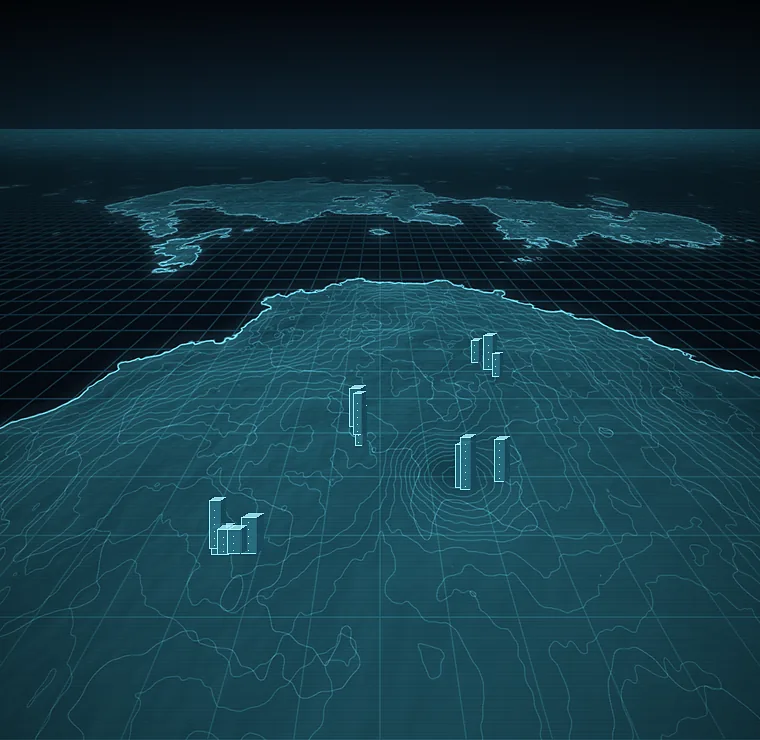
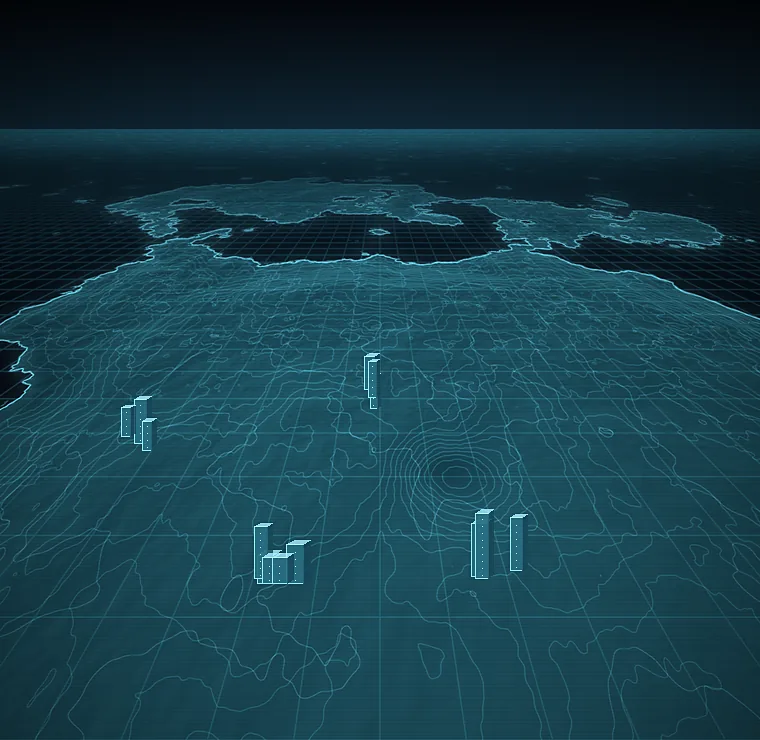
v26: three Gates per rank, map shows only rank-1 / rank / rank+1
- 18 Gates (3 per rank E..S); original ids kept so saved clears and an
  active gate still load (base snapshots missing new objectives start
  counting at load)
- Only Gates one rank below, at and above your rank exist on the map
  and can be entered; everything else stays hidden until you reach it
- Map layout per Belphegor: rows by rank (higher = farther), staggered
  columns, short beams with a tall one on the selected/active Gate,
  HUD bottom-left, 2-row layout at E-rank and the top rank; art slots
  re-rendered with land under all 12 slots
- Ember detail card took a hardcoded blue; now follows --gate
- Tests 17/17 (fixed a flaky case: entry can roll a Red Gate)

diff --git a/dev/ascend.html b/dev/ascend.html
@@ -241,7 +241,7 @@ button{font:inherit;color:inherit}
 .gpin.lock .grk,.gpin.lock .glv{opacity:.7}
 .gbrk{position:absolute;left:50%;top:26px;transform:translateX(-50%);font-family:var(--f-mono);font-size:9px;letter-spacing:.1em;color:#ffd6f4;white-space:nowrap;border-left:2px solid #ff4fd8;padding-left:4px;text-shadow:0 0 6px #ff4fd8}
 .gpin:focus-visible{outline:2px solid #fff;outline-offset:4px;border-radius:50%}
-.gdet{--gk:#4fb8ff}.gdet.active{--gk:#ff4fd8}
+.gdet{--gk:var(--gate)}.gdet.active{--gk:#ff4fd8}
 /* --- Gate Dispatch polish (Belphegor audit) --- */
 :root{--gate:#4fb8ff;--gbreak:#ff4fd8}
 [data-skin="hunter"]{--gate:#62d8e6}
@@ -344,6 +344,15 @@ button{font:inherit;color:inherit}
 .gpin.red .ring{animation:gsel 1s ease-out infinite}
 @media (prefers-reduced-motion:reduce){.gpin.red .ring{animation:none}}
 [data-skin="daylight"] .gdet.active.red{--gk:#c41f1f}
+/* rank-window layout: short beams, tall only when selected/active, HUD bottom-left */
+.gmap{height:420px}
+.ghud{top:auto;bottom:8px;left:8px}
+.gpin{--tb:var(--tb0,88px);--bs:var(--bs0,.65)}
+.gpin.sel,.gpin.active{--tb:var(--tb1,116px);--bs:.85}
+.gpin .beam{transform:scaleY(var(--bs));transform-origin:50% 100%}
+.gtag{bottom:var(--tb)}
+.gpin::before{height:calc(var(--tb) + 8px)}
+.gbrk{background:rgba(5,8,14,.75);padding:1px 6px 1px 4px}
 @keyframes gfr{to{background-position:-512px 0}}
 .gpin.lock .ring{border-color:#9aa6b4;background:radial-gradient(closest-side,rgba(5,8,14,.6),transparent 80%)}
 .gpin.lock .grk{background:rgba(5,8,14,.85)}
@@ -622,13 +631,32 @@ const objName=a=>(OBJ.find(o=>o[0]===a)||[0,""])[1];
 // Gates: ranked dungeons with real-life objectives. "run" = Daily Quest clears in a row (Rest Days neutral); others count up from entry.
 const GATES=[
   {id:"e",t:0,name:"Goblin Den",days:5,xp:60,obj:[["run",3,"Clear the Daily Quest 3 days in a row"]]},
+  {id:"e2",t:0,name:"Rat Warrens",days:5,xp:60,obj:[["str50",3,"3 strength sessions"]]},
+  {id:"e3",t:0,name:"Mossy Hollow",days:5,xp:60,obj:[["int40",3,"3 reading sessions"]]},
   {id:"d",t:1,name:"Flooded Cellar",days:7,xp:100,obj:[["miles",10,"Log 10 timed miles (run or ruck time)"]]},
+  {id:"d2",t:1,name:"Bone Crypt",days:7,xp:100,obj:[["vit30",5,"Lights out on time, 5 nights"]]},
+  {id:"d3",t:1,name:"Whispering Shrine",days:7,xp:100,obj:[["per100",5,"5 meditation sessions"]]},
   {id:"c",t:2,name:"Iron Mines",days:10,xp:150,obj:[["str50",6,"6 strength sessions"],["agi30",3,"3 runs or rucks"]]},
+  {id:"c2",t:2,name:"Sunken Library",days:10,xp:150,obj:[["int40",7,"7 reading sessions"]]},
+  {id:"c3",t:2,name:"Ashen Barracks",days:10,xp:150,obj:[["run",5,"Clear the Daily Quest 5 days in a row"]]},
   {id:"b",t:3,name:"Wraith Halls",days:14,xp:220,obj:[["vit30",10,"Lights out on time, 10 nights"]]},
+  {id:"b2",t:3,name:"Frost Spire",days:14,xp:220,obj:[["miles",25,"Log 25 timed miles"]]},
+  {id:"b3",t:3,name:"Ogre Fortress",days:14,xp:220,obj:[["str50",10,"10 strength sessions"],["water25",10,"Hit your water goal 10 days"]]},
   {id:"a",t:4,name:"Scholar's Labyrinth",days:21,xp:300,strict:true,obj:[["clear10",14,"Clear the Daily Quest 14 days"]]},
-  {id:"s",t:5,name:"Monarch's Gate",days:35,xp:500,obj:[["run",30,"Clear the Daily Quest 30 days in a row"]]}];
-const GBASE=["str50","agi30","vit30","clear10","miles"];
-const GPOS={e:[13,86,1],c:[44,84,1],a:[86,86,1],d:[27,58,.85],b:[73,58,.85],s:[57,46,.75]}; // [x%, y%, depth scale] of each pillar base // pillar base on the dispatch map, % of map box
+  {id:"a2",t:4,name:"Demon Keep",days:21,xp:300,obj:[["str50",14,"14 strength sessions"],["agi30",8,"8 runs or rucks"]]},
+  {id:"a3",t:4,name:"Storm Peak",days:21,xp:300,obj:[["miles",45,"Log 45 timed miles"]]},
+  {id:"s",t:5,name:"Monarch's Gate",days:35,xp:500,obj:[["run",30,"Clear the Daily Quest 30 days in a row"]]},
+  {id:"s2",t:5,name:"Queen's Hive",days:35,xp:500,obj:[["clear10",28,"Clear the Daily Quest 28 days"],["miles",60,"Log 60 timed miles"]]},
+  {id:"s3",t:5,name:"Abyssal Throne",days:35,xp:500,obj:[["str50",24,"24 strength sessions"],["vit30",24,"Lights out on time, 24 nights"],["per100",20,"20 meditation sessions"]]}];
+const GBASE=["str50","agi30","vit30","clear10","miles","int40","per100","water25"];
+const GTOP=5; // highest Gate rank (S); National Level and Monarch see A and S
+const gTier=()=>Math.min(tierOf(S.lvl),GTOP);
+// only Gates one rank below, at and above your rank exist on the map; the rest stay hidden until you reach them
+const gVisible=g=>Math.abs(g.t-gTier())<=1;
+// map rows (Belphegor spec): higher rank = farther back; staggered columns; tb/bs = tag height / beam scale, *1 = selected or active
+const GROW3={"1":{y:40,z:.7,x:[18,46,74],tb:80,bs:.59,tb1:108},"0":{y:60,z:.85,x:[32,60,88],tb:85,bs:.63,tb1:113},"-1":{y:80,z:1,x:[16,46,76],tb:88,bs:.65,tb1:116}};
+const GROW2={hi:{y:46,z:.8,x:[32,60,88],tb:80,bs:.59,tb1:108},lo:{y:80,z:1,x:[16,46,76],tb:88,bs:.65,tb1:116}};
+function gSlot(g){const T=gTier(),three=T>0&&T<GTOP,r=three?GROW3[g.t-T]:GROW2[g.t>Math.min(T,GTOP-1)||(T===GTOP&&g.t===GTOP)?"hi":"lo"],i=GATES.filter(x=>x.t===g.t).indexOf(g);return {x:r.x[i],y:r.y,z:r.z,tb:r.tb,bs:r.bs,tb1:r.tb1}} // [x%, y%, depth scale] of each pillar base // pillar base on the dispatch map, % of map box
 let selGate=null;
 const focusPin=()=>{const p=$(".gpin.sel");if(p)p.focus({preventScroll:true})};
 const LOCK='<svg width="9" height="9" viewBox="0 0 10 10" aria-hidden="true"><rect x="1.5" y="4.5" width="7" height="5" rx="1" fill="currentColor"/><path d="M3 4.5V3a2 2 0 0 1 4 0v1.5" fill="none" stroke="currentColor" stroke-width="1.3"/></svg>';
@@ -691,8 +719,8 @@ function load(sv){if(!sv||typeof sv!=="object")return;const D=fresh(),num=v=>typ
   if(key(sv.gateCd))S.gateCd=sv.gateCd;
   if(sv.gateClears&&typeof sv.gateClears==="object")for(const g of GATES){const v=sv.gateClears[g.id];if(Number.isInteger(v)&&v>0)S.gateClears[g.id]=v}
   const g=sv.gate; // a damaged active gate is dropped on its own; the rest of the save still loads
-  if(g&&typeof g==="object"&&GATES.some(x=>x.id===g.id)&&key(g.start)&&key(g.until)&&g.start<=g.until&&Number.isInteger(g.run)&&g.run>=0&&typeof g.failed==="boolean"&&g.base&&GBASE.every(k=>num(g.base[k])&&g.base[k]>=0))
-    S.gate={id:g.id,start:g.start,until:g.until,run:g.run,failed:g.failed,red:g.red===true,base:Object.fromEntries(GBASE.map(k=>[k,g.base[k]]))}}
+  if(g&&typeof g==="object"&&GATES.some(x=>x.id===g.id)&&key(g.start)&&key(g.until)&&g.start<=g.until&&Number.isInteger(g.run)&&g.run>=0&&typeof g.failed==="boolean"&&g.base&&["str50","agi30","vit30","clear10","miles"].every(k=>num(g.base[k])&&g.base[k]>=0))
+    S.gate={id:g.id,start:g.start,until:g.until,run:g.run,failed:g.failed,red:g.red===true,base:Object.fromEntries(GBASE.map(k=>[k,num(g.base[k])&&g.base[k]>=0?g.base[k]:S.ap[k]]))}}
 let storageOK=true,saveBlocked=false;
 // accept stored/restored data only if it has the basic Ascend shape; never fill a blank profile from junk
 const VER=7,STORE="ascend-v7",OLD=["ascend-v6","ascend-v5","ascend-v4"];
@@ -739,7 +767,7 @@ const RED_CHANCE=.15;
 const gGoal=(g,k,n)=>S.gate&&S.gate.red&&S.gate.id===g.id?(k==="miles"?Math.ceil(n*1.5):Math.min(g.days,Math.ceil(n*1.5))):n;
 const gXP=g=>S.gate&&S.gate.red&&S.gate.id===g.id?g.xp*2:g.xp;
 const gMet=()=>!!S.gate&&!S.gate.failed&&(g=>g.obj.every(([k,n])=>gProg(k,1)>=gGoal(g,k,n)-1e-9))(gateDef(S.gate.id));
-const canEnter=g=>!S.gate&&g.t<=tierOf(S.lvl)&&!(S.gateCd&&S.day<S.gateCd);
+const canEnter=g=>!S.gate&&gVisible(g)&&!(S.gateCd&&S.day<S.gateCd);
 function enterGate(id){const g=gateDef(id);if(!g||!canEnter(g))return;
   S.gate={id,start:S.day,until:addDays(S.day,g.days-1),run:0,failed:false,red:Math.random()<RED_CHANCE,base:Object.fromEntries(GBASE.map(k=>[k,k==="miles"?S.m.miles:S.ap[k]]))};
   save();render(true);setTimeout(focusPin);
@@ -916,11 +944,12 @@ ${sh("Assessment")}
 <div class="card glowcard" style="--c:var(--hl)"><button class="cta" data-start="1">${hex("agi",28)}<span><b>${!S.base?"Player Assessment":reDue()?"Monthly Re-Assessment due":"Monthly Re-Assessment"}</b><small>${!S.base?"15 questions · 3 min":reDue()?"Re-measure yourself. Your stats reset to the honest result.":`Next in ${30-daysSince(S.baseKey)} days · last taken ${S.base}`}</small></span><span aria-hidden="true">→</span></button></div>`},
 
 quests(){const T=tierOf(S.lvl),G=S.gate;
-if(!gateDef(selGate))selGate=G?G.id:([...GATES].reverse().find(g=>g.t<=T)||GATES[0]).id;
-const st=g=>G&&G.id===g.id?"active":g.t>T?"lock":"open";
+if(G&&!gateDef(selGate))selGate=G.id;
+if(!G&&!(gateDef(selGate)&&gVisible(gateDef(selGate))))selGate=GATES.find(g=>g.t===gTier()).id;
+const st=g=>G&&G.id===g.id?"active":gVisible(g)?"open":"lock";
 // Gate Dispatch: a tilted holo map with one light pillar per Gate; the active Gate burns pink, like a dungeon break
-const pins=GATES.map(g=>{const[x,y,z]=GPOS[g.id],k=st(g),n=S.gateClears[g.id]||0,red=k==="active"&&G.red;
-  return `<button class="gpin ${k}${red?" red":""} ${selGate===g.id?"sel":""}" style="left:${x}%;top:${y}%;--z:${z};--zi:${(1/z).toFixed(3)};--d:${(g.t*.37)%1.3}s;z-index:${Math.round(y)}" data-gsel="${g.id}" role="radio" aria-checked="${selGate===g.id}" aria-label="${RANKS[g.t][0]}, ${g.name}, level ${RANK_AT[g.t]}, ${g.days} days${k==="lock"?", locked":red?", red gate, active":k==="active"?", active":""}${n?`, cleared ${n} times`:""}">
+const pins=GATES.filter(gVisible).map(g=>{const{x,y,z,tb,bs,tb1}=gSlot(g),k=st(g),n=S.gateClears[g.id]||0,red=k==="active"&&G.red;
+  return `<button class="gpin ${k}${red?" red":""} ${selGate===g.id?"sel":""}" style="left:${x}%;top:${y}%;--z:${z};--tb0:${tb}px;--bs0:${bs};--tb1:${tb1}px;--zi:${(1/z).toFixed(3)};--d:${(g.t*.37)%1.3}s;z-index:${Math.round(y)}" data-gsel="${g.id}" role="radio" aria-checked="${selGate===g.id}" aria-label="${RANKS[g.t][0]}, ${g.name}, level ${RANK_AT[g.t]}, ${g.days} days${k==="lock"?", locked":red?", red gate, active":k==="active"?", active":""}${n?`, cleared ${n} times`:""}">
   <i class="beam"></i><i class="flame"></i><i class="core"></i><i class="ring"></i>
   <span class="gtag"><span class="grk"><b>${"EDCBAS"[g.t]}</b><span class="glv">${k==="lock"?LOCK:""}Lv.${RANK_AT[g.t]}</span></span></span>
   ${k==="active"?`<span class="gbrk">${red?"RED GATE":"DUNGEON BREAK"}</span>`:""}</button>`}).join("");

diff --git a/index.html b/index.html
@@ -254,7 +254,7 @@ button{font:inherit;color:inherit}
 .gpin.lock .grk,.gpin.lock .glv{opacity:.7}
 .gbrk{position:absolute;left:50%;top:26px;transform:translateX(-50%);font-family:var(--f-mono);font-size:9px;letter-spacing:.1em;color:#ffd6f4;white-space:nowrap;border-left:2px solid #ff4fd8;padding-left:4px;text-shadow:0 0 6px #ff4fd8}
 .gpin:focus-visible{outline:2px solid #fff;outline-offset:4px;border-radius:50%}
-.gdet{--gk:#4fb8ff}.gdet.active{--gk:#ff4fd8}
+.gdet{--gk:var(--gate)}.gdet.active{--gk:#ff4fd8}
 /* --- Gate Dispatch polish (Belphegor audit) --- */
 :root{--gate:#4fb8ff;--gbreak:#ff4fd8}
 [data-skin="hunter"]{--gate:#62d8e6}
@@ -357,6 +357,15 @@ button{font:inherit;color:inherit}
 .gpin.red .ring{animation:gsel 1s ease-out infinite}
 @media (prefers-reduced-motion:reduce){.gpin.red .ring{animation:none}}
 [data-skin="daylight"] .gdet.active.red{--gk:#c41f1f}
+/* rank-window layout: short beams, tall only when selected/active, HUD bottom-left */
+.gmap{height:420px}
+.ghud{top:auto;bottom:8px;left:8px}
+.gpin{--tb:var(--tb0,88px);--bs:var(--bs0,.65)}
+.gpin.sel,.gpin.active{--tb:var(--tb1,116px);--bs:.85}
+.gpin .beam{transform:scaleY(var(--bs));transform-origin:50% 100%}
+.gtag{bottom:var(--tb)}
+.gpin::before{height:calc(var(--tb) + 8px)}
+.gbrk{background:rgba(5,8,14,.75);padding:1px 6px 1px 4px}
 @keyframes gfr{to{background-position:-512px 0}}
 .gpin.lock .ring{border-color:#9aa6b4;background:radial-gradient(closest-side,rgba(5,8,14,.6),transparent 80%)}
 .gpin.lock .grk{background:rgba(5,8,14,.85)}
@@ -647,13 +656,32 @@ const objName=a=>(OBJ.find(o=>o[0]===a)||[0,""])[1];
 // Gates: ranked dungeons with real-life objectives. "run" = Daily Quest clears in a row (Rest Days neutral); others count up from entry.
 const GATES=[
   {id:"e",t:0,name:"Goblin Den",days:5,xp:60,obj:[["run",3,"Clear the Daily Quest 3 days in a row"]]},
+  {id:"e2",t:0,name:"Rat Warrens",days:5,xp:60,obj:[["str50",3,"3 strength sessions"]]},
+  {id:"e3",t:0,name:"Mossy Hollow",days:5,xp:60,obj:[["int40",3,"3 reading sessions"]]},
   {id:"d",t:1,name:"Flooded Cellar",days:7,xp:100,obj:[["miles",10,"Log 10 timed miles (run or ruck time)"]]},
+  {id:"d2",t:1,name:"Bone Crypt",days:7,xp:100,obj:[["vit30",5,"Lights out on time, 5 nights"]]},
+  {id:"d3",t:1,name:"Whispering Shrine",days:7,xp:100,obj:[["per100",5,"5 meditation sessions"]]},
   {id:"c",t:2,name:"Iron Mines",days:10,xp:150,obj:[["str50",6,"6 strength sessions"],["agi30",3,"3 runs or rucks"]]},
+  {id:"c2",t:2,name:"Sunken Library",days:10,xp:150,obj:[["int40",7,"7 reading sessions"]]},
+  {id:"c3",t:2,name:"Ashen Barracks",days:10,xp:150,obj:[["run",5,"Clear the Daily Quest 5 days in a row"]]},
   {id:"b",t:3,name:"Wraith Halls",days:14,xp:220,obj:[["vit30",10,"Lights out on time, 10 nights"]]},
+  {id:"b2",t:3,name:"Frost Spire",days:14,xp:220,obj:[["miles",25,"Log 25 timed miles"]]},
+  {id:"b3",t:3,name:"Ogre Fortress",days:14,xp:220,obj:[["str50",10,"10 strength sessions"],["water25",10,"Hit your water goal 10 days"]]},
   {id:"a",t:4,name:"Scholar's Labyrinth",days:21,xp:300,strict:true,obj:[["clear10",14,"Clear the Daily Quest 14 days"]]},
-  {id:"s",t:5,name:"Monarch's Gate",days:35,xp:500,obj:[["run",30,"Clear the Daily Quest 30 days in a row"]]}];
-const GBASE=["str50","agi30","vit30","clear10","miles"];
-const GPOS={e:[13,86,1],c:[44,84,1],a:[86,86,1],d:[27,58,.85],b:[73,58,.85],s:[57,46,.75]}; // [x%, y%, depth scale] of each pillar base // pillar base on the dispatch map, % of map box
+  {id:"a2",t:4,name:"Demon Keep",days:21,xp:300,obj:[["str50",14,"14 strength sessions"],["agi30",8,"8 runs or rucks"]]},
+  {id:"a3",t:4,name:"Storm Peak",days:21,xp:300,obj:[["miles",45,"Log 45 timed miles"]]},
+  {id:"s",t:5,name:"Monarch's Gate",days:35,xp:500,obj:[["run",30,"Clear the Daily Quest 30 days in a row"]]},
+  {id:"s2",t:5,name:"Queen's Hive",days:35,xp:500,obj:[["clear10",28,"Clear the Daily Quest 28 days"],["miles",60,"Log 60 timed miles"]]},
+  {id:"s3",t:5,name:"Abyssal Throne",days:35,xp:500,obj:[["str50",24,"24 strength sessions"],["vit30",24,"Lights out on time, 24 nights"],["per100",20,"20 meditation sessions"]]}];
+const GBASE=["str50","agi30","vit30","clear10","miles","int40","per100","water25"];
+const GTOP=5; // highest Gate rank (S); National Level and Monarch see A and S
+const gTier=()=>Math.min(tierOf(S.lvl),GTOP);
+// only Gates one rank below, at and above your rank exist on the map; the rest stay hidden until you reach them
+const gVisible=g=>Math.abs(g.t-gTier())<=1;
+// map rows (Belphegor spec): higher rank = farther back; staggered columns; tb/bs = tag height / beam scale, *1 = selected or active
+const GROW3={"1":{y:40,z:.7,x:[18,46,74],tb:80,bs:.59,tb1:108},"0":{y:60,z:.85,x:[32,60,88],tb:85,bs:.63,tb1:113},"-1":{y:80,z:1,x:[16,46,76],tb:88,bs:.65,tb1:116}};
+const GROW2={hi:{y:46,z:.8,x:[32,60,88],tb:80,bs:.59,tb1:108},lo:{y:80,z:1,x:[16,46,76],tb:88,bs:.65,tb1:116}};
+function gSlot(g){const T=gTier(),three=T>0&&T<GTOP,r=three?GROW3[g.t-T]:GROW2[g.t>Math.min(T,GTOP-1)||(T===GTOP&&g.t===GTOP)?"hi":"lo"],i=GATES.filter(x=>x.t===g.t).indexOf(g);return {x:r.x[i],y:r.y,z:r.z,tb:r.tb,bs:r.bs,tb1:r.tb1}} // [x%, y%, depth scale] of each pillar base // pillar base on the dispatch map, % of map box
 let selGate=null;
 const focusPin=()=>{const p=$(".gpin.sel");if(p)p.focus({preventScroll:true})};
 const LOCK='<svg width="9" height="9" viewBox="0 0 10 10" aria-hidden="true"><rect x="1.5" y="4.5" width="7" height="5" rx="1" fill="currentColor"/><path d="M3 4.5V3a2 2 0 0 1 4 0v1.5" fill="none" stroke="currentColor" stroke-width="1.3"/></svg>';
@@ -716,8 +744,8 @@ function load(sv){if(!sv||typeof sv!=="object")return;const D=fresh(),num=v=>typ
   if(key(sv.gateCd))S.gateCd=sv.gateCd;
   if(sv.gateClears&&typeof sv.gateClears==="object")for(const g of GATES){const v=sv.gateClears[g.id];if(Number.isInteger(v)&&v>0)S.gateClears[g.id]=v}
   const g=sv.gate; // a damaged active gate is dropped on its own; the rest of the save still loads
-  if(g&&typeof g==="object"&&GATES.some(x=>x.id===g.id)&&key(g.start)&&key(g.until)&&g.start<=g.until&&Number.isInteger(g.run)&&g.run>=0&&typeof g.failed==="boolean"&&g.base&&GBASE.every(k=>num(g.base[k])&&g.base[k]>=0))
-    S.gate={id:g.id,start:g.start,until:g.until,run:g.run,failed:g.failed,red:g.red===true,base:Object.fromEntries(GBASE.map(k=>[k,g.base[k]]))}}
+  if(g&&typeof g==="object"&&GATES.some(x=>x.id===g.id)&&key(g.start)&&key(g.until)&&g.start<=g.until&&Number.isInteger(g.run)&&g.run>=0&&typeof g.failed==="boolean"&&g.base&&["str50","agi30","vit30","clear10","miles"].every(k=>num(g.base[k])&&g.base[k]>=0))
+    S.gate={id:g.id,start:g.start,until:g.until,run:g.run,failed:g.failed,red:g.red===true,base:Object.fromEntries(GBASE.map(k=>[k,num(g.base[k])&&g.base[k]>=0?g.base[k]:S.ap[k]]))}}
 let storageOK=true,saveBlocked=false;
 // accept stored/restored data only if it has the basic Ascend shape; never fill a blank profile from junk
 const VER=7,STORE="ascend-v7",OLD=["ascend-v6","ascend-v5","ascend-v4"];
@@ -764,7 +792,7 @@ const RED_CHANCE=.15;
 const gGoal=(g,k,n)=>S.gate&&S.gate.red&&S.gate.id===g.id?(k==="miles"?Math.ceil(n*1.5):Math.min(g.days,Math.ceil(n*1.5))):n;
 const gXP=g=>S.gate&&S.gate.red&&S.gate.id===g.id?g.xp*2:g.xp;
 const gMet=()=>!!S.gate&&!S.gate.failed&&(g=>g.obj.every(([k,n])=>gProg(k,1)>=gGoal(g,k,n)-1e-9))(gateDef(S.gate.id));
-const canEnter=g=>!S.gate&&g.t<=tierOf(S.lvl)&&!(S.gateCd&&S.day<S.gateCd);
+const canEnter=g=>!S.gate&&gVisible(g)&&!(S.gateCd&&S.day<S.gateCd);
 function enterGate(id){const g=gateDef(id);if(!g||!canEnter(g))return;
   S.gate={id,start:S.day,until:addDays(S.day,g.days-1),run:0,failed:false,red:Math.random()<RED_CHANCE,base:Object.fromEntries(GBASE.map(k=>[k,k==="miles"?S.m.miles:S.ap[k]]))};
   save();render(true);setTimeout(focusPin);
@@ -941,11 +969,12 @@ ${sh("Assessment")}
 <div class="card glowcard" style="--c:var(--hl)"><button class="cta" data-start="1">${hex("agi",28)}<span><b>${!S.base?"Player Assessment":reDue()?"Monthly Re-Assessment due":"Monthly Re-Assessment"}</b><small>${!S.base?"15 questions · 3 min":reDue()?"Re-measure yourself. Your stats reset to the honest result.":`Next in ${30-daysSince(S.baseKey)} days · last taken ${S.base}`}</small></span><span aria-hidden="true">→</span></button></div>`},
 
 quests(){const T=tierOf(S.lvl),G=S.gate;
-if(!gateDef(selGate))selGate=G?G.id:([...GATES].reverse().find(g=>g.t<=T)||GATES[0]).id;
-const st=g=>G&&G.id===g.id?"active":g.t>T?"lock":"open";
+if(G&&!gateDef(selGate))selGate=G.id;
+if(!G&&!(gateDef(selGate)&&gVisible(gateDef(selGate))))selGate=GATES.find(g=>g.t===gTier()).id;
+const st=g=>G&&G.id===g.id?"active":gVisible(g)?"open":"lock";
 // Gate Dispatch: a tilted holo map with one light pillar per Gate; the active Gate burns pink, like a dungeon break
-const pins=GATES.map(g=>{const[x,y,z]=GPOS[g.id],k=st(g),n=S.gateClears[g.id]||0,red=k==="active"&&G.red;
-  return `<button class="gpin ${k}${red?" red":""} ${selGate===g.id?"sel":""}" style="left:${x}%;top:${y}%;--z:${z};--zi:${(1/z).toFixed(3)};--d:${(g.t*.37)%1.3}s;z-index:${Math.round(y)}" data-gsel="${g.id}" role="radio" aria-checked="${selGate===g.id}" aria-label="${RANKS[g.t][0]}, ${g.name}, level ${RANK_AT[g.t]}, ${g.days} days${k==="lock"?", locked":red?", red gate, active":k==="active"?", active":""}${n?`, cleared ${n} times`:""}">
+const pins=GATES.filter(gVisible).map(g=>{const{x,y,z,tb,bs,tb1}=gSlot(g),k=st(g),n=S.gateClears[g.id]||0,red=k==="active"&&G.red;
+  return `<button class="gpin ${k}${red?" red":""} ${selGate===g.id?"sel":""}" style="left:${x}%;top:${y}%;--z:${z};--tb0:${tb}px;--bs0:${bs};--tb1:${tb1}px;--zi:${(1/z).toFixed(3)};--d:${(g.t*.37)%1.3}s;z-index:${Math.round(y)}" data-gsel="${g.id}" role="radio" aria-checked="${selGate===g.id}" aria-label="${RANKS[g.t][0]}, ${g.name}, level ${RANK_AT[g.t]}, ${g.days} days${k==="lock"?", locked":red?", red gate, active":k==="active"?", active":""}${n?`, cleared ${n} times`:""}">
   <i class="beam"></i><i class="flame"></i><i class="core"></i><i class="ring"></i>
   <span class="gtag"><span class="grk"><b>${"EDCBAS"[g.t]}</b><span class="glv">${k==="lock"?LOCK:""}Lv.${RANK_AT[g.t]}</span></span></span>
   ${k==="active"?`<span class="gbrk">${red?"RED GATE":"DUNGEON BREAK"}</span>`:""}</button>`}).join("");

diff --git a/sw.js b/sw.js
@@ -1,5 +1,5 @@
 // Ascend service worker: serve from cache, refresh in the background (bypassing the HTTP cache).
-const V = "ascend-v25";
+const V = "ascend-v26";
 const SHELL = ["./", "index.html", "manifest.webmanifest", "icons/icon-192.png", "icons/icon-512.png", ...["e","d","c","b","a","s","nl","m"].map(b => `badges/${b}.webp`), "gates/map.webp", ...["blue","cyan","amber","pink","red"].map(c => `gates/pillar-${c}.webp`)];
 // cache: "reload" bypasses the HTTP cache (GitHub Pages max-age=600) so a new version never stores the old page
 self.addEventListener("install", e => e.waitUntil(caches.open(V).then(c => c.addAll(SHELL.map(x => new Request(x, { cache: "reload" })))).then(() => self.skipWaiting())));

diff --git a/dev/art/gate_art.py b/dev/art/gate_art.py
@@ -1,14 +1,14 @@
 # Procedural art for the Gate Dispatch map: an original holo continent seen through a tilted camera,
 # plus looping flame-pillar sprite sheets. Output -> ../../gates/ (served next to index.html).
 #   python dev/art/gate_art.py
-# Pins must sit on land: PINS mirrors GPOS in dev/ascend.html (x%, y% of the map box).
+# Pins must sit on land: PINS mirrors GROW slots in dev/ascend.html (x%, y% of the map box).
 import numpy as np
 from PIL import Image, ImageDraw, ImageFilter
 from pathlib import Path
 
 OUT = Path(__file__).resolve().parents[2] / "gates"
 OUT.mkdir(exist_ok=True)
-PINS = {"e": (13, 86), "c": (44, 84), "a": (86, 86), "d": (27, 58), "b": (73, 58), "s": (57, 46)}
+PINS = {f"r{y}x{x}": (x, y) for y, xs in ((40, (18, 46, 74)), (60, (32, 60, 88)), (80, (16, 46, 76)), (46, (32, 60, 88))) for x in xs}  # mirrors GROW3 + GROW2
 rng = np.random.default_rng(7)
 
 # ---------- camera: screen (u,v in 0..1) <-> ground plane (X,Z) ----------
@@ -117,7 +117,8 @@ def render_map(W=760, H=740, SS=2):
 
     # city blocks: small extruded towers on land, away from the pins
     d = ImageDraw.Draw(im, "RGBA")
-    sites = [(.30, .74), (.62, .66), (.48, .58), (.66, .50)]  # each >= .08 from every pin
+    sites = [(.36, .78), (.64, .78), (.50, .53), (.20, .60)]
+    assert all(min(((cu - px / 100) ** 2 + (cv - py / 100) ** 2) ** .5 for px, py in PINS.values()) >= .08 for cu, cv in sites), "city site too close to a gate slot"
     for (cu, cv) in sites:
         X0, Z0 = ground(cu, cv)
         if hgt[int(cv * h), int(cu * w)] <= 0.02:  # only on land

diff --git a/dev/build_pwa.py b/dev/build_pwa.py
@@ -83,7 +83,7 @@ open(f'{OUT}/manifest.webmanifest', 'w', encoding='utf-8').write('''{
 ''')
 
 open(f'{OUT}/sw.js', 'w', encoding='utf-8').write('''// Ascend service worker: serve from cache, refresh in the background (bypassing the HTTP cache).
-const V = "ascend-v25";
+const V = "ascend-v26";
 const SHELL = ["./", "index.html", "manifest.webmanifest", "icons/icon-192.png", "icons/icon-512.png", ...["e","d","c","b","a","s","nl","m"].map(b => `badges/${b}.webp`), "gates/map.webp", ...["blue","cyan","amber","pink","red"].map(c => `gates/pillar-${c}.webp`)];
 // cache: "reload" bypasses the HTTP cache (GitHub Pages max-age=600) so a new version never stores the old page
 self.addEventListener("install", e => e.waitUntil(caches.open(V).then(c => c.addAll(SHELL.map(x => new Request(x, { cache: "reload" })))).then(() => self.skipWaiting())));
